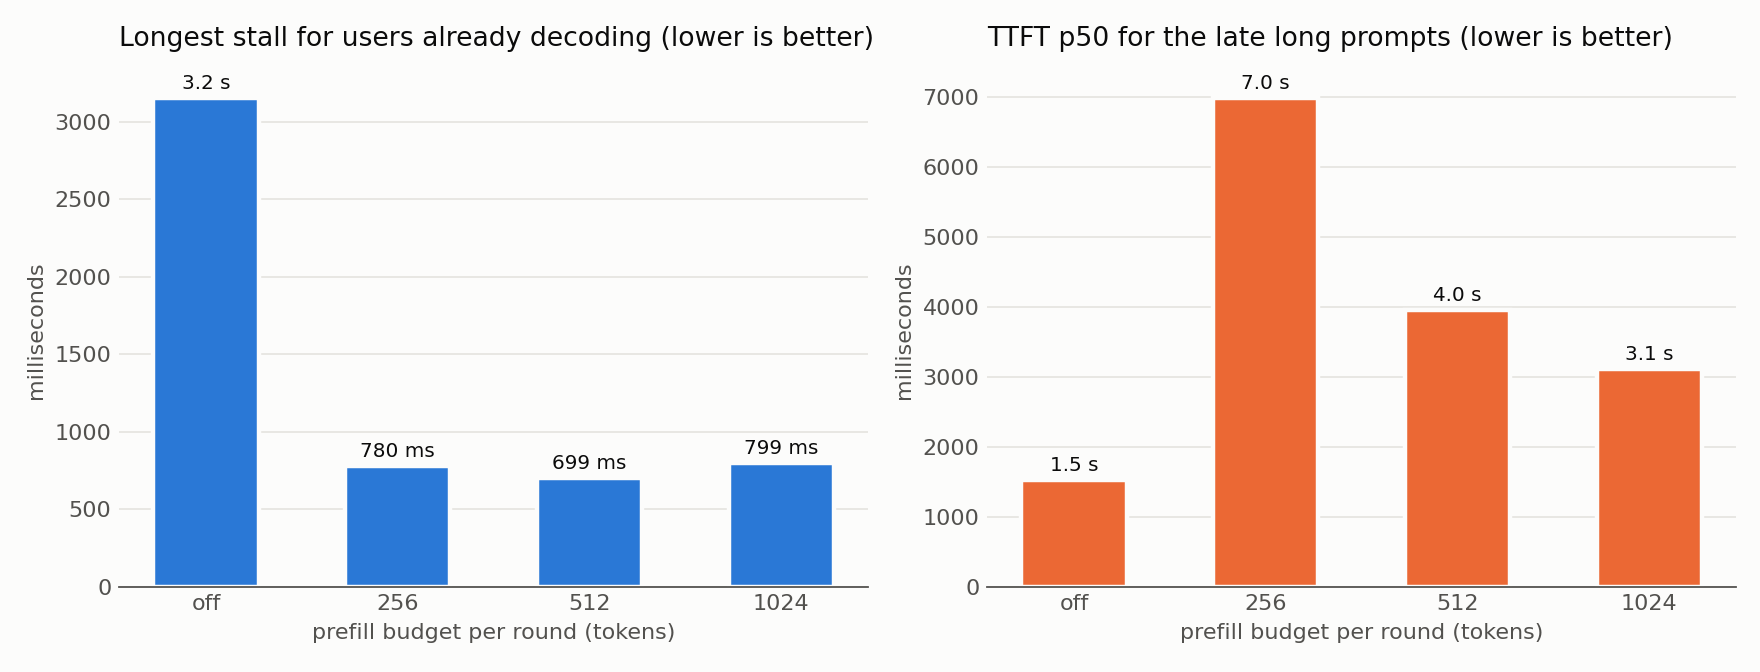
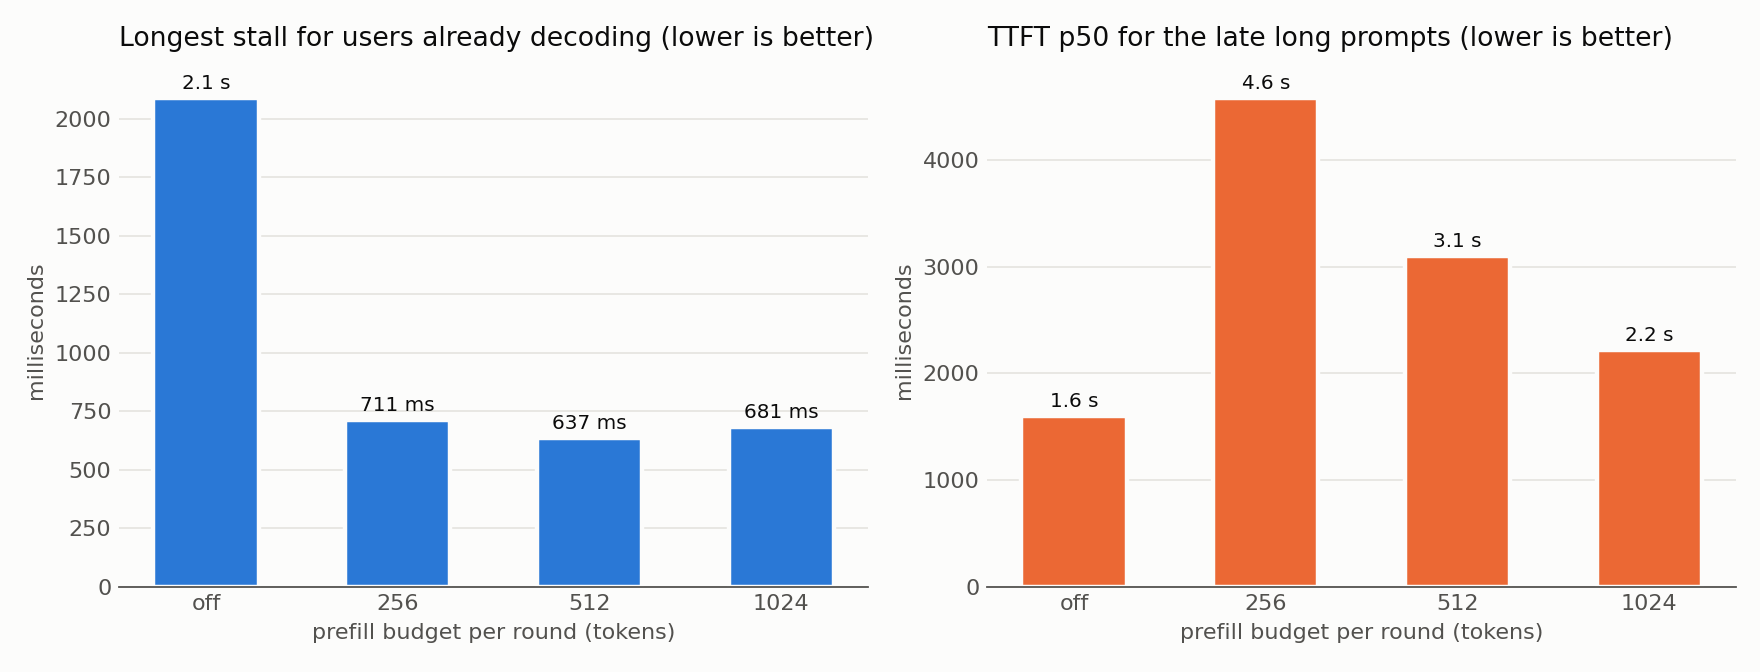
redraw the charts and readme from one session

diff --git a/plot.py b/plot.py
@@ -10,12 +10,12 @@ RESULTS = Path(__file__).parent / "results"
 DOCS = Path(__file__).parent / "docs"
 SURFACE, INK, INK_2, GRID = "#fcfcfb", "#0b0b0b", "#52514e", "#e6e5e1"
 SERIES = ["#2a78d6", "#eb6834", "#1baf7a", "#eda100"]
-RUNS = [("baseline-smollm2", "baseline (padded copies)"),
-        ("paged-smollm2", "paged KV cache, SDPA attention"),
-        ("paged-matmul-smollm2", "paged KV cache, reshape attention"),
-        ("chunked-smollm2", "+ chunked prefill (later, slower session)")]
-CHUNK_RUNS = [("chunk-off-smollm2", "off"), ("chunk-256-smollm2", "256"), ("chunk-512-smollm2", "512"),
-              ("chunk-1024-smollm2", "1024")]
+RUNS = [("baseline-same-session", "baseline (padded copies)"),
+        ("paged-sdpa-same-session", "paged KV cache, SDPA attention"),
+        ("paged-reshape-same-session", "paged KV cache, reshape attention"),
+        ("chunked-same-session", "+ chunked prefill (512 tokens per round)")]
+CHUNK_RUNS = [("chunk-0-same-session", "off"), ("chunk-256-same-session", "256"), ("chunk-512-same-session", "512"),
+              ("chunk-1024-same-session", "1024")]
 
 
 def load(label):
@@ -146,7 +146,7 @@ def chunk_budgets():
 
 def prefix():
     """TTFT with a shared 500-token system prompt, prefix caching off against on."""
-    off, on = load("prefix-off-smollm2"), load("prefix-on-smollm2")
+    off, on = load("prefix-off-same-session"), load("prefix-on-same-session")
     fig, axes = new_figure(width=11, height=4.2, columns=2)
     for ax, key, title in zip(axes, ("ttft_p50_ms", "ttft_p99_ms"), ("TTFT p50", "TTFT p99")):
         positions = range(len(off))

diff --git a/README.md b/README.md
@@ -22,26 +22,30 @@ pads all of them to the same length every decode step.
 ## Headline results
 
 Apple M4, 16 GB, Mac GPU (MPS), SmolLM2-135M at fp32, each user asks for 100
-tokens, at most 30 users decoding at once.
+tokens, at most 30 users decoding at once. **Every number and chart below was
+measured in one session** (2026-10-19), because the same code can run at
+different speeds on different days.
 
 | | Baseline | nano-vLLM | Change |
 |---|---|---|---|
-| Total throughput, 30 users | 189 tok/s | **515 tok/s** | **2.7×** |
-| One decode step, ~30 users | 132 ms | **48 ms** | 2.8× faster |
-| Gap between tokens (ITL p50), 30 users | 164 ms | **46 ms** | 3.6× smaller |
-| Throughput, 1 user | 28 tok/s | **38 tok/s** | 1.4× |
-| TTFT p99, 40 users (10 wait for a seat) | 15.5 s | **5.9 s** | 2.6× smaller |
-| TTFT p50, 30 users sharing a 500-token prompt | 2.4 s (caching off) | **0.70 s** (caching on) | 3.4× smaller |
-| Longest stall for 20 decoding users when 10 long prompts arrive | 3.2 s (chunking off) | **0.70 s** (512-token chunks) | 4.5× shorter |
+| Total throughput, 30 users | 191 tok/s | **475 tok/s** | **2.5×** |
+| One decode step, ~30 users | 142 ms | **49 ms** | 2.9× faster |
+| Gap between tokens (ITL p50), 30 users | 152 ms | **47 ms** | 3.2× smaller |
+| Throughput, 1 user | 30 tok/s | **38 tok/s** | 1.3× |
+| TTFT p99, 40 users (10 wait for a seat) | 16.2 s | **6.4 s** | 2.5× smaller |
+| One decode step, 28 users × 512 tokens of context | ~190 ms (SDPA) | **95 ms** | 2× faster |
+| TTFT p50, 30 users sharing a 500-token prompt | 4.2 s (caching off) | **0.73 s** (caching on) | 5.8× smaller |
+| Longest stall for 20 decoding users when 10 long prompts arrive | 2.1 s (chunking off) | **0.64 s** (512-token chunks) | 3.3× shorter |
 
 ![Total throughput against users](docs/throughput.png)
 
 ![TTFT and ITL against users](docs/latency.png)
 
-The yellow line (chunked prefill) was measured in a later session in which the
-Mac ran slower overall: in that same session, the server with chunking turned
-off reached 418 tok/s at 30 users, against 411 with it on. On these short
-prompts chunking changes nothing; the gap to the green line is the session.
+With these short prompts (7 tokens), chunked prefill has nothing to split, so
+its line sits on top of the green one (471 against 475 tok/s at 30 users). Its
+effect shows only when long prompts arrive, in the chunked prefill test below.
+The attention change matters most for long contexts, which these 100-token
+answers never reach.
 
 ## How it works
 
@@ -133,14 +137,14 @@ python3 test_engine.py      # the server's engine: greedy answers equal HF gener
 The baseline's stopwatches (waiting for the GPU before each reading) showed
 where one decode step goes:
 
-| Part | 1 user | 10 users | 28 users |
+| Part | 1 user | 10 users | 29 users |
 |---|---|---|---|
-| pad/concat | 7.9 (23%) | 23.0 (30%) | **65.8 (50%)** |
-| forward | 23.4 (69%) | 48.3 (63%) | 58.1 (44%) |
-| sampling | 2.3 | 4.0 | 6.0 |
-| slice-back | 0.1 | 0.8 | 2.4 |
-| sending | 0.01 | 0.01 | 0.02 |
-| whole step | 33.7 | 76.2 | 132.3 |
+| pad/concat | 7.9 (24%) | 24.0 (30%) | **73.9 (52%)** |
+| forward | 23.2 (69%) | 50.4 (64%) | 59.6 (42%) |
+| sampling | 2.4 | 3.8 | 5.4 |
+| slice-back | 0.1 | 1.0 | 2.6 |
+| sending | 0.01 | 0.02 | 0.03 |
+| whole step | 33.6 | 79.3 | 141.6 |
 
 At 30 users, every step padded each user's K and V separately in every layer:
 1,800 pads and 60 concatenates, all to build a rectangle that was thrown away
@@ -151,13 +155,24 @@ a copy.
 
 ![One decode step before and after](docs/round.png)
 
-1. **Paged KV cache** (58 ms per step). K and V are written once into their
+1. **Paged KV cache** (57 ms per step). K and V are written once into their
    block and never moved. A step does one gather per layer for K and one for V,
    whatever the number of users.
-2. **Attention by reshape instead of SDPA** (48 ms). On MPS, PyTorch's SDPA
-   with a mask and grouped heads took 3.3–3.5× longer than a plain
-   matmul-softmax-matmul where each group of 3 query heads is reshaped onto its
-   shared K/V head (no copy). Same results to 6e-7.
+2. **Attention by reshape instead of SDPA** (49 ms). Each group of 3 query
+   heads, and every query position, is stacked as rows against its shared K/V
+   head, so attention is two plain matrix multiplies with nothing copied. One
+   layer of decode attention for 28 users × 512 tokens: **4.1 ms with SDPA,
+   0.43 ms by reshape**, same results to 3e-7.
+
+**A regression we caught.** When prefill started using the same attention
+function (for prefix caching), it was generalised in a way that made the
+matmul broadcast K and V across the heads in each group. That quietly made it
+*slower* than SDPA (4.5 ms instead of 1.3 ms per layer), and the prefix-caching
+and first chunked-prefill measurements ran on the slow version. Re-running
+every setup in one session exposed it: the "faster" attention lost to SDPA.
+The fix stacks heads and positions into rows instead of broadcasting, and is
+committed separately. Lesson: re-measure old wins after every change, not only
+the new feature.
 
 ### What is left: attention grows with users × context
 
@@ -165,20 +180,22 @@ a copy.
 
 | Users | Context | Step | norm+QKV+RoPE | write | gather | attention | o_proj+MLP |
 |---|---|---|---|---|---|---|---|
-| 1 | 64 | 19 ms | 11.6 | 6.0 | 6.4 | 8.5 | 13.6 |
-| 28 | 64 | 39 ms | 13.8 | 6.0 | 13.2 | 16.8 | 18.0 |
-| 28 | 512 | 180–190 ms | 13.7 | 6.1 | 45.4 | 134.1 | 16.7 |
+| 1 | 512 | 22 ms | 11.2 | 5.9 | 8.4 | 8.9 | 14.3 |
+| 28 | 64 | 37 ms | 13.6 | 6.2 | 13.3 | 16.7 | 16.3 |
+| 28 | 256 | 61 ms | 13.8 | 6.2 | 28.7 | 30.0 | 17.7 |
+| 28 | 512 | 95 ms | 14.3 | 6.3 | 45.5 | 48.6 | 17.2 |
 
 (The parts add up to more than the step because of the extra GPU waits.)
 
 - **With 1 user, the step is mostly fixed overhead.** Reading all 540 MB of
-  weights at about 120 GB/s takes about 4.5 ms, but the step takes 19 ms: about
+  weights at about 120 GB/s takes about 4.5 ms, but the step takes ~22 ms: about
   30 layers × ~20 small GPU operations, each with a launch cost. Paging cannot
   fix that; fusing operations (or CUDA graphs on NVIDIA) would.
-- **With long contexts, the gather and attention dominate.** A step costs about
-  13–14 ms per 1,000 user-tokens, the same for 30 × 540, 16 × 1,000 and
-  8 × 2,000. The gather is still a copy: real vLLM's PagedAttention kernel reads
-  blocks in place, which needs a custom GPU kernel.
+- **With long contexts, the gather and attention dominate.** From 28 × 64 to
+  28 × 512 tokens, the step grows by about 58 ms, almost all of it gather and
+  attention (about 4.6 ms per extra 1,000 user-tokens). The gather is still a
+  copy: real vLLM's PagedAttention kernel reads blocks in place, which needs a
+  custom GPU kernel.
 - **Shared prompt blocks are gathered once per user.** With a 500-token shared
   system prompt, 30 users gather the same blocks 30 times every step, so
   prefix caching helps prefill (TTFT) but not decode.
@@ -189,13 +206,17 @@ a copy.
 
 Every user sends the same ~500-token system prompt plus their own question.
 With caching on, the first user prefills everything; everyone after reuses the
-cached full blocks and prefills only the last block and their question.
+cached full blocks and prefills only the last block and their question. Both
+runs use the default 512-token chunked prefill.
 
 | Users | TTFT p50 off | TTFT p50 on | TTFT p99 off | TTFT p99 on |
 |---|---|---|---|---|
-| 1 | 321 ms | 205 ms | 321 ms | 205 ms |
-| 10 | 842 ms | 400 ms | 1.56 s | 764 ms |
-| 30 | 2.39 s | **701 ms** | 4.51 s | **1.22 s** |
+| 1 | 370 ms | 201 ms | 370 ms | 201 ms |
+| 10 | 1.94 s | 439 ms | 3.35 s | 690 ms |
+| 30 | 4.25 s | **731 ms** | 9.97 s | **1.51 s** |
+
+With caching off, 30 users × 500 tokens is 15,000 prompt tokens, read 512 per
+round between decode steps; with caching on, most of that never needs reading.
 
 ### Chunked prefill
 
@@ -208,20 +229,20 @@ anyone gets another token.
 
 | Prompt tokens read per round | Longest stall (early users) | ITL p99 (early users) | TTFT p50 (late users) | TTFT p99 (late users) |
 |---|---|---|---|---|
-| no limit | 3,157 ms | 469 ms | 1.5 s | 2.8 s |
-| 256 | 780 ms | 676 ms | 7.0 s | 15.1 s |
-| **512 (default)** | **699 ms** | 599 ms | 4.0 s | 8.7 s |
-| 1,024 | 799 ms | 772 ms | 3.1 s | 6.0 s |
+| no limit | 2,090 ms | 1,032 ms | 1.6 s | 2.9 s |
+| 256 | 711 ms | 412 ms | 4.6 s | 9.8 s |
+| **512 (default)** | **637 ms** | 423 ms | 3.1 s | 6.4 s |
+| 1,024 | 681 ms | 548 ms | 2.2 s | 4.5 s |
 
-- **It is a trade, not a free win.** Chunking cuts the worst freeze for users
-  who are already reading by 4.5×, but the people with long prompts wait longer
-  for their first token, because every round also has to decode all 20 early
-  users while moving the long prompts forward only a slice.
-- **The stall does not shrink below ~700 ms** even with small slices: each
-  round also decodes 30 users whose contexts reach 900 tokens, and that decode
-  step (attention over users × context) is now the bigger part of a round.
-- **The ITL p99 got worse** (469 → 599 ms) while the single worst gap got much
-  better: chunking spreads one 3-second freeze over many slower rounds.
+- **Users already generating get a smoother stream.** The worst freeze drops
+  3.3× and the ITL p99 more than halves (1,032 → 423 ms).
+- **The people with long prompts pay for it.** Their first token comes later
+  (1.6 s → 3.1 s), because each round moves their prompts forward only a slice
+  and also decodes all 20 early users.
+- **The stall does not shrink below ~640 ms** even with small slices: each
+  round also decodes 30 users whose contexts reach 900 tokens, so a round is
+  never cheap. A bigger budget gives late users their answer sooner at the cost
+  of bigger gaps for everyone else.
 
 ## Correctness
 
@@ -263,31 +284,31 @@ Two lessons from testing:
 | 11 | What the allocator does when it can't satisfy a request | **All or nothing**: it raises `PoolFull` and hands out no blocks; a bad free also changes nothing | A half-seated user or a half-freed list would leave the pool in a state nobody can reason about |
 | 12 | Shape of the pool | One K and one V tensor per layer, **`[blocks, block_size, kv_heads, head_dim]`**; token `n` lives in block `table[n // 16]`, slot `n % 16` | After a gather, `blocks × block_size` merge into one token axis for free, and swapping heads and tokens is only a view |
 | 13 | When the pool is full | **Reserve at the door**: a user is seated only if blocks for `prompt + max_tokens` are free; otherwise they wait at the front of the line | It can never run out in the middle of a step, so no user has to be evicted and recomputed. It wastes blocks when answers end early; vLLM's preemption is the upgrade |
-| 14 | Attention in paged prefill and decode | **Matmul-softmax-matmul, with each group of query heads reshaped onto its K/V head**, instead of SDPA | Measured on MPS: 3.3–3.5× faster than SDPA with a mask, same results to 6e-7; took a step at 30 users from 58 ms to 48 ms |
+| 14 | Attention in paged prefill and decode | **Matmul-softmax-matmul, with each group's query heads and positions stacked as rows against its K/V head**, instead of SDPA | Measured on MPS: decode attention 4.1 ms → 0.43 ms per layer at 28 × 512, prefill equal, same results to 3e-7. A first generalisation for prefill broadcast K/V and was slower than SDPA; found by re-measuring and fixed |
 | 15 | Test tolerance for paged decode | **5e-4 on CPU, 1e-3 on MPS**, plus "same token at every step" | Hugging Face's own step-by-step decoding differs from its own full forward by 1e-4; logits reach about 40, so 3e-4 is a relative error of about 1e-5 |
 | 16 | What prefix caching shares | **Full 16-token prompt blocks**, found by a chained hash (each block's fingerprint covers every token before it), with reference counts; the **last prompt token is always recomputed** | A chained hash means a match always covers the whole prefix. The last token must be computed to get its logits. Decode never writes into a full prompt block, so shared blocks are never changed |
 | 17 | What happens to a cached block when its users leave | It goes back to the free list **but keeps its fingerprint**, and is revived if someone asks for it before it is handed out again | Free memory doubles as a cache at no cost; reuse order is oldest freed first |
 | 18 | When users arrive together | **Seat and prefill them one at a time** | Otherwise everyone arriving in the same moment would look up the cache before anyone had filled it, and nobody would share |
 | 19 | Seats | **Keep 30** | Not re-measured for the paged engine; 30 users fit easily in the pool, and keeping the cap makes every before/after comparison fair |
 | 20 | How chunked prefill shares a round | A **budget of prompt tokens per round**; half-read prompts go first, and new users are seated only while budget is left; each chunk's full blocks are added to the prefix cache right away | Half-read prompts first means nobody is overtaken forever. Registering after every chunk keeps prefix caching working: a user seated in a later round reuses the blocks the first user has already read |
-| 21 | Budget size | **512 tokens** (setting `NANO_PREFILL_CHUNK`, 0 = no limit) | Measured 256, 512 and 1,024: 512 gave the shortest worst stall (699 ms) and the best ITL p99 of the three, with a middle cost to the late users' TTFT |
+| 21 | Budget size | **512 tokens** (setting `NANO_PREFILL_CHUNK`, 0 = no limit) | Measured 256, 512 and 1,024 twice: 512 gave the shortest worst stall both times (637 ms in the final run), with a middle cost to the late users' TTFT |
 
 ## Limits
 
 - A tiny model (135M) on a Mac GPU, fp32, one machine, no tensor parallelism,
   no quantization.
 - The paged attention is a gather plus plain PyTorch operations, not a fused
-  GPU kernel, so the gather is still a copy and long contexts cost about
-  13–14 ms per 1,000 user-tokens per step.
+  GPU kernel, so the gather is still a copy and a step for 28 users at 512
+  tokens of context takes ~95 ms, about half of it gathering.
 - New users are prefilled one at a time (one forward pass each, even inside the
   same round), so TTFT grows with the number of users arriving together
-  (575 ms p50 for 30 at once).
+  (about 600 ms p50 for 30 at once).
 - Chunked prefill trades the late users' TTFT for the early users' smoothness;
   the budget is fixed, not adapted to the load.
 - Reserving `prompt + max_tokens` at the door wastes blocks when answers stop
   early; there is no preemption.
-- Measurements on MPS vary between runs (the same decode step measured 98 ms
-  and 190 ms in different sessions); compare runs from the same session.
+- Throughput on MPS moves by a few percent between runs, so all charts come
+  from one session; older result files in `results/` are kept for history.
 - The load test client runs on the same Mac as the server.
 - No live metrics endpoint: the numbers come from `bench.py` and the server's
   stopwatch reports.
